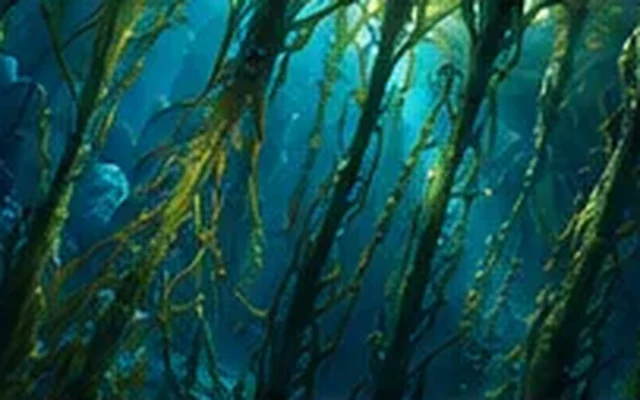
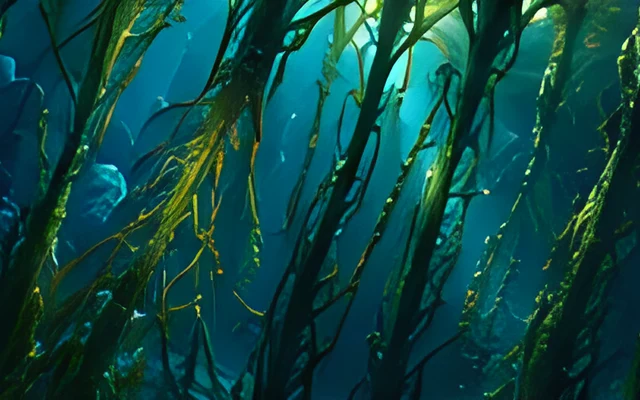
Card art: upscale here on the CPU (Real-ESRGAN, scripts/cardart/upscale.py) instead of on fal.ai; Kelp Wall sharpened
Claude-Session: https://claude.ai/code/session_01AGgLXhEWFDWnAiYRCGkagM

diff --git a/scripts/cardart/upscale.py b/scripts/cardart/upscale.py
@@ -1,0 +1,100 @@
+#!/usr/bin/env python3
+"""Sharpen card pictures cut small from a contact sheet: Real-ESRGAN (x4plus) run here on the CPU, no service needed.
+
+    python3 scripts/cardart/upscale.py WEIGHTS.pth tide_regent kelp_wall ...
+
+WEIGHTS.pth is RealESRGAN_x4plus.pth (github.com/xinntao/Real-ESRGAN releases; not kept in the repo). Each card's full
+picture, generated/<id>.png, is enlarged 4x in place and cut again into the card's 640x400 picture (the middle of a
+wide one, the upper part of a tall one). A picture already 600px wide or more is left alone. Needs torch and Pillow."""
+import os, sys
+import numpy as np
+import torch
+from torch import nn
+from torch.nn import functional as F
+from PIL import Image
+
+HERE = os.path.dirname(os.path.abspath(__file__))
+CARDS = os.path.join(HERE, '..', '..', 'src', 'assets', 'cards')
+KEEP = os.path.join(HERE, 'generated')
+
+
+class RDB(nn.Module):
+    def __init__(self, nf=64, gc=32):
+        super().__init__()
+        self.conv1 = nn.Conv2d(nf, gc, 3, 1, 1)
+        self.conv2 = nn.Conv2d(nf + gc, gc, 3, 1, 1)
+        self.conv3 = nn.Conv2d(nf + 2 * gc, gc, 3, 1, 1)
+        self.conv4 = nn.Conv2d(nf + 3 * gc, gc, 3, 1, 1)
+        self.conv5 = nn.Conv2d(nf + 4 * gc, nf, 3, 1, 1)
+        self.lrelu = nn.LeakyReLU(0.2, True)
+
+    def forward(self, x):
+        x1 = self.lrelu(self.conv1(x))
+        x2 = self.lrelu(self.conv2(torch.cat((x, x1), 1)))
+        x3 = self.lrelu(self.conv3(torch.cat((x, x1, x2), 1)))
+        x4 = self.lrelu(self.conv4(torch.cat((x, x1, x2, x3), 1)))
+        return self.conv5(torch.cat((x, x1, x2, x3, x4), 1)) * 0.2 + x
+
+
+class RRDB(nn.Module):
+    def __init__(self, nf=64):
+        super().__init__()
+        self.rdb1, self.rdb2, self.rdb3 = RDB(nf), RDB(nf), RDB(nf)
+
+    def forward(self, x):
+        return self.rdb3(self.rdb2(self.rdb1(x))) * 0.2 + x
+
+
+class RRDBNet(nn.Module):
+    """The ESRGAN generator, laid out as Real-ESRGAN's weights expect."""
+    def __init__(self, nf=64, nb=23):
+        super().__init__()
+        self.conv_first = nn.Conv2d(3, nf, 3, 1, 1)
+        self.body = nn.Sequential(*[RRDB(nf) for _ in range(nb)])
+        self.conv_body = nn.Conv2d(nf, nf, 3, 1, 1)
+        self.conv_up1 = nn.Conv2d(nf, nf, 3, 1, 1)
+        self.conv_up2 = nn.Conv2d(nf, nf, 3, 1, 1)
+        self.conv_hr = nn.Conv2d(nf, nf, 3, 1, 1)
+        self.conv_last = nn.Conv2d(nf, 3, 3, 1, 1)
+        self.lrelu = nn.LeakyReLU(0.2, True)
+
+    def forward(self, x):
+        feat = self.conv_first(x)
+        feat = feat + self.conv_body(self.body(feat))
+        feat = self.lrelu(self.conv_up1(F.interpolate(feat, scale_factor=2, mode='nearest')))
+        feat = self.lrelu(self.conv_up2(F.interpolate(feat, scale_factor=2, mode='nearest')))
+        return self.conv_last(self.lrelu(self.conv_hr(feat)))
+
+
+def card_picture(img):
+    w, h = img.size
+    if w / h < 1.6:
+        ch = int(w / 1.6); y = int((h - ch) * 0.4); img = img.crop((0, y, w, y + ch))
+    else:
+        cw = int(h * 1.6); x = (w - cw) // 2; img = img.crop((x, 0, x + cw, h))
+    return img.resize((640, 400), Image.LANCZOS)
+
+
+def main():
+    weights, ids = sys.argv[1], sys.argv[2:]
+    net = RRDBNet()
+    state = torch.load(weights, map_location='cpu')
+    net.load_state_dict(state.get('params_ema', state.get('params', state)))
+    net.eval()
+    torch.set_num_threads(os.cpu_count() or 4)
+    for cid in ids:
+        path = os.path.join(KEEP, f'{cid}.png')
+        img = Image.open(path).convert('RGB')
+        if img.width >= 600:
+            print(f'{cid}: already {img.width}x{img.height}, left alone'); continue
+        x = torch.from_numpy(np.asarray(img, dtype=np.float32) / 255).permute(2, 0, 1)[None]
+        with torch.no_grad():
+            y = net(x).clamp(0, 1)[0].permute(1, 2, 0).numpy()
+        big = Image.fromarray((y * 255 + 0.5).astype(np.uint8))
+        big.save(path)
+        card_picture(big).save(os.path.join(CARDS, f'{cid}.webp'), quality=88)
+        print(f'{cid}: {img.width}x{img.height} -> {big.width}x{big.height}', flush=True)
+
+
+if __name__ == '__main__':
+    main()

diff --git a/scripts/cardart/generate.py b/scripts/cardart/generate.py
@@ -4,7 +4,6 @@
     FAL_KEY=... python3 scripts/cardart/generate.py aureline helio_lancer halo_ward   # some cards
     FAL_KEY=... python3 scripts/cardart/generate.py aureline                          # every card in the file
     FAL_KEY=... python3 scripts/cardart/generate.py aureline --edit glory_charge      # repaint its existing picture
-    FAL_KEY=... python3 scripts/cardart/generate.py upscale tide_regent kelp_wall       # sharpen small pictures
 
 Each card's prompt is put together from prompts/<race>.json (the style, the race's look, the framing and the
 card's own scene); the race's reference images (refs/<race>-*.jpg) go with it, so every card shows the same
@@ -60,45 +59,7 @@ EDIT = ('Repaint the first image as a finished, full-resolution card illustratio
         'lighting and the moment it shows, but repaint every figure (the other images show what the Aureline look like). ')
 
 
-UPSCALER = os.environ.get('FAL_UPSCALER', 'fal-ai/esrgan')
-
-
-def upscale(ids):
-    """Each card's full picture (generated/<id>.png, e.g. a panel cut from a contact sheet), enlarged 4x by an
-    upscaling model, kept in its place and cut again into the card's picture (the middle of a wide one, the upper
-    part of a tall one)."""
-    key = os.environ.get('FAL_KEY') or os.environ.get('FAL_API_KEY')
-    if not key: sys.exit('Set FAL_KEY (your fal.ai API key) in the environment.')
-    failed = []
-    for cid in ids:
-        path = os.path.join(KEEP, f'{cid}.png')
-        body = json.dumps({'image_url': data_uri(path), 'scale': 4, 'model': 'RealESRGAN_x4plus', 'output_format': 'png'}).encode()
-        req = urllib.request.Request(f'https://fal.run/{UPSCALER}', data=body, headers={'Authorization': f'Key {key}', 'Content-Type': 'application/json'})
-        try:
-            with urllib.request.urlopen(req, timeout=300) as r:
-                out = json.load(r)
-            url = (out.get('image') or out['images'][0])['url']
-            with urllib.request.urlopen(url, timeout=120) as r:
-                img = Image.open(BytesIO(r.read())).convert('RGB')
-        except Exception as e:
-            msg = f'{e.code} {e.read().decode(errors="replace")[:500]}' if isinstance(e, urllib.error.HTTPError) else str(e)
-            print(f'{cid}: failed: {msg}', flush=True); failed.append(cid)
-            if msg[:3] in ('401', '403', '404', '422'): break
-            continue
-        img.save(path)
-        w, h = img.size
-        if w / h < 1.6:
-            ch = int(w / 1.6); y = int((h - ch) * 0.4); card = img.crop((0, y, w, y + ch)).resize((640, 400), Image.LANCZOS)
-        else:
-            card = card_crop(img)
-        card.save(os.path.join(CARDS, f'{cid}.webp'), quality=88)
-        print(f'{cid}: upscaled to {w}x{h}', flush=True)
-    if failed: sys.exit(f'failed: {" ".join(failed)}')
-
-
 def main():
-    if sys.argv[1:2] == ['upscale']:
-        return upscale(sys.argv[2:])
     # `--edit` repaints the card's existing picture (generated/<id>.png, e.g. one painted elsewhere) instead of
     # starting afresh, with the instruction in prompts/<race>.json "edits" (the race, style and framing follow it).
     edit = '--edit' in sys.argv
